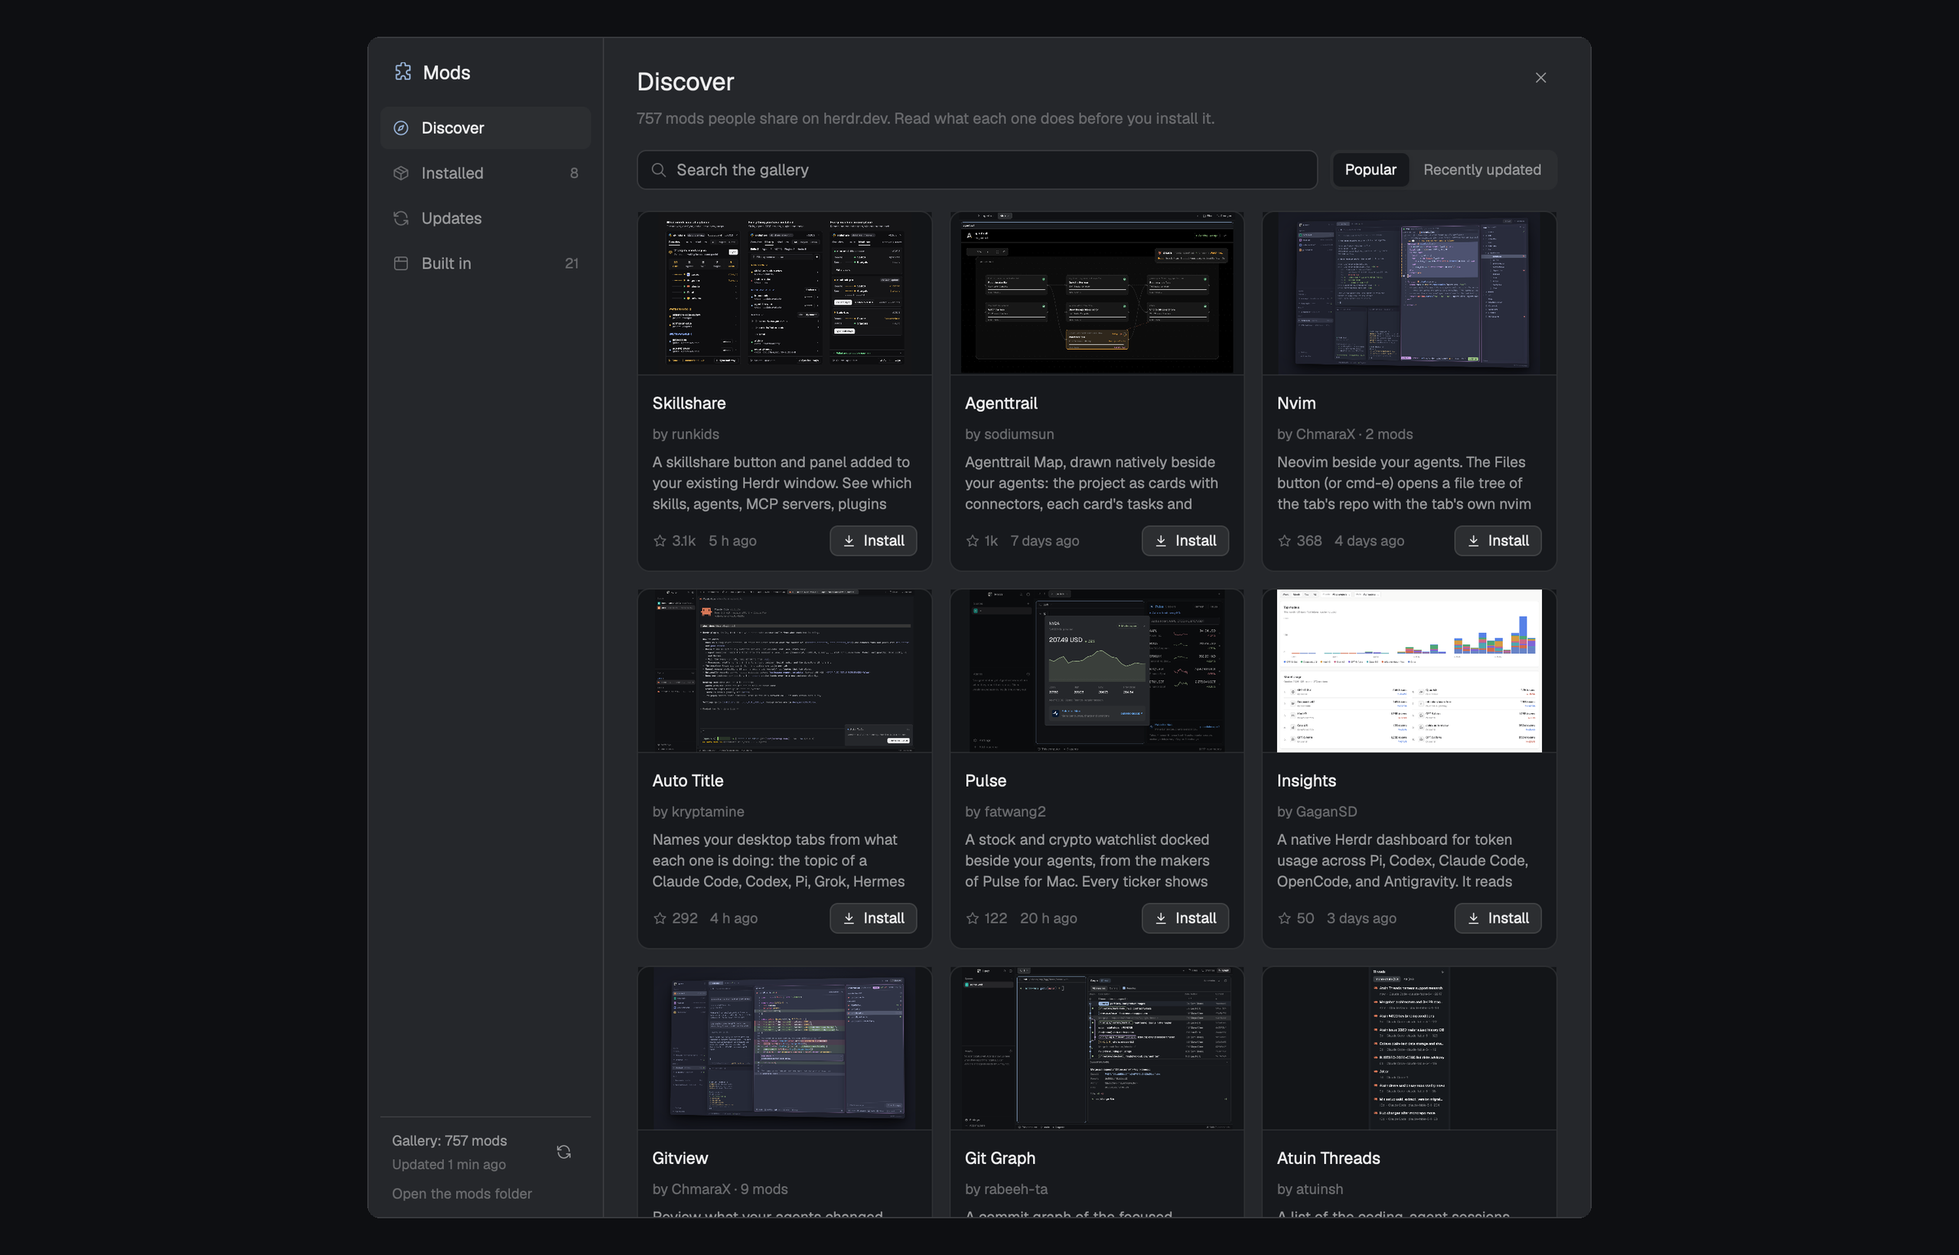
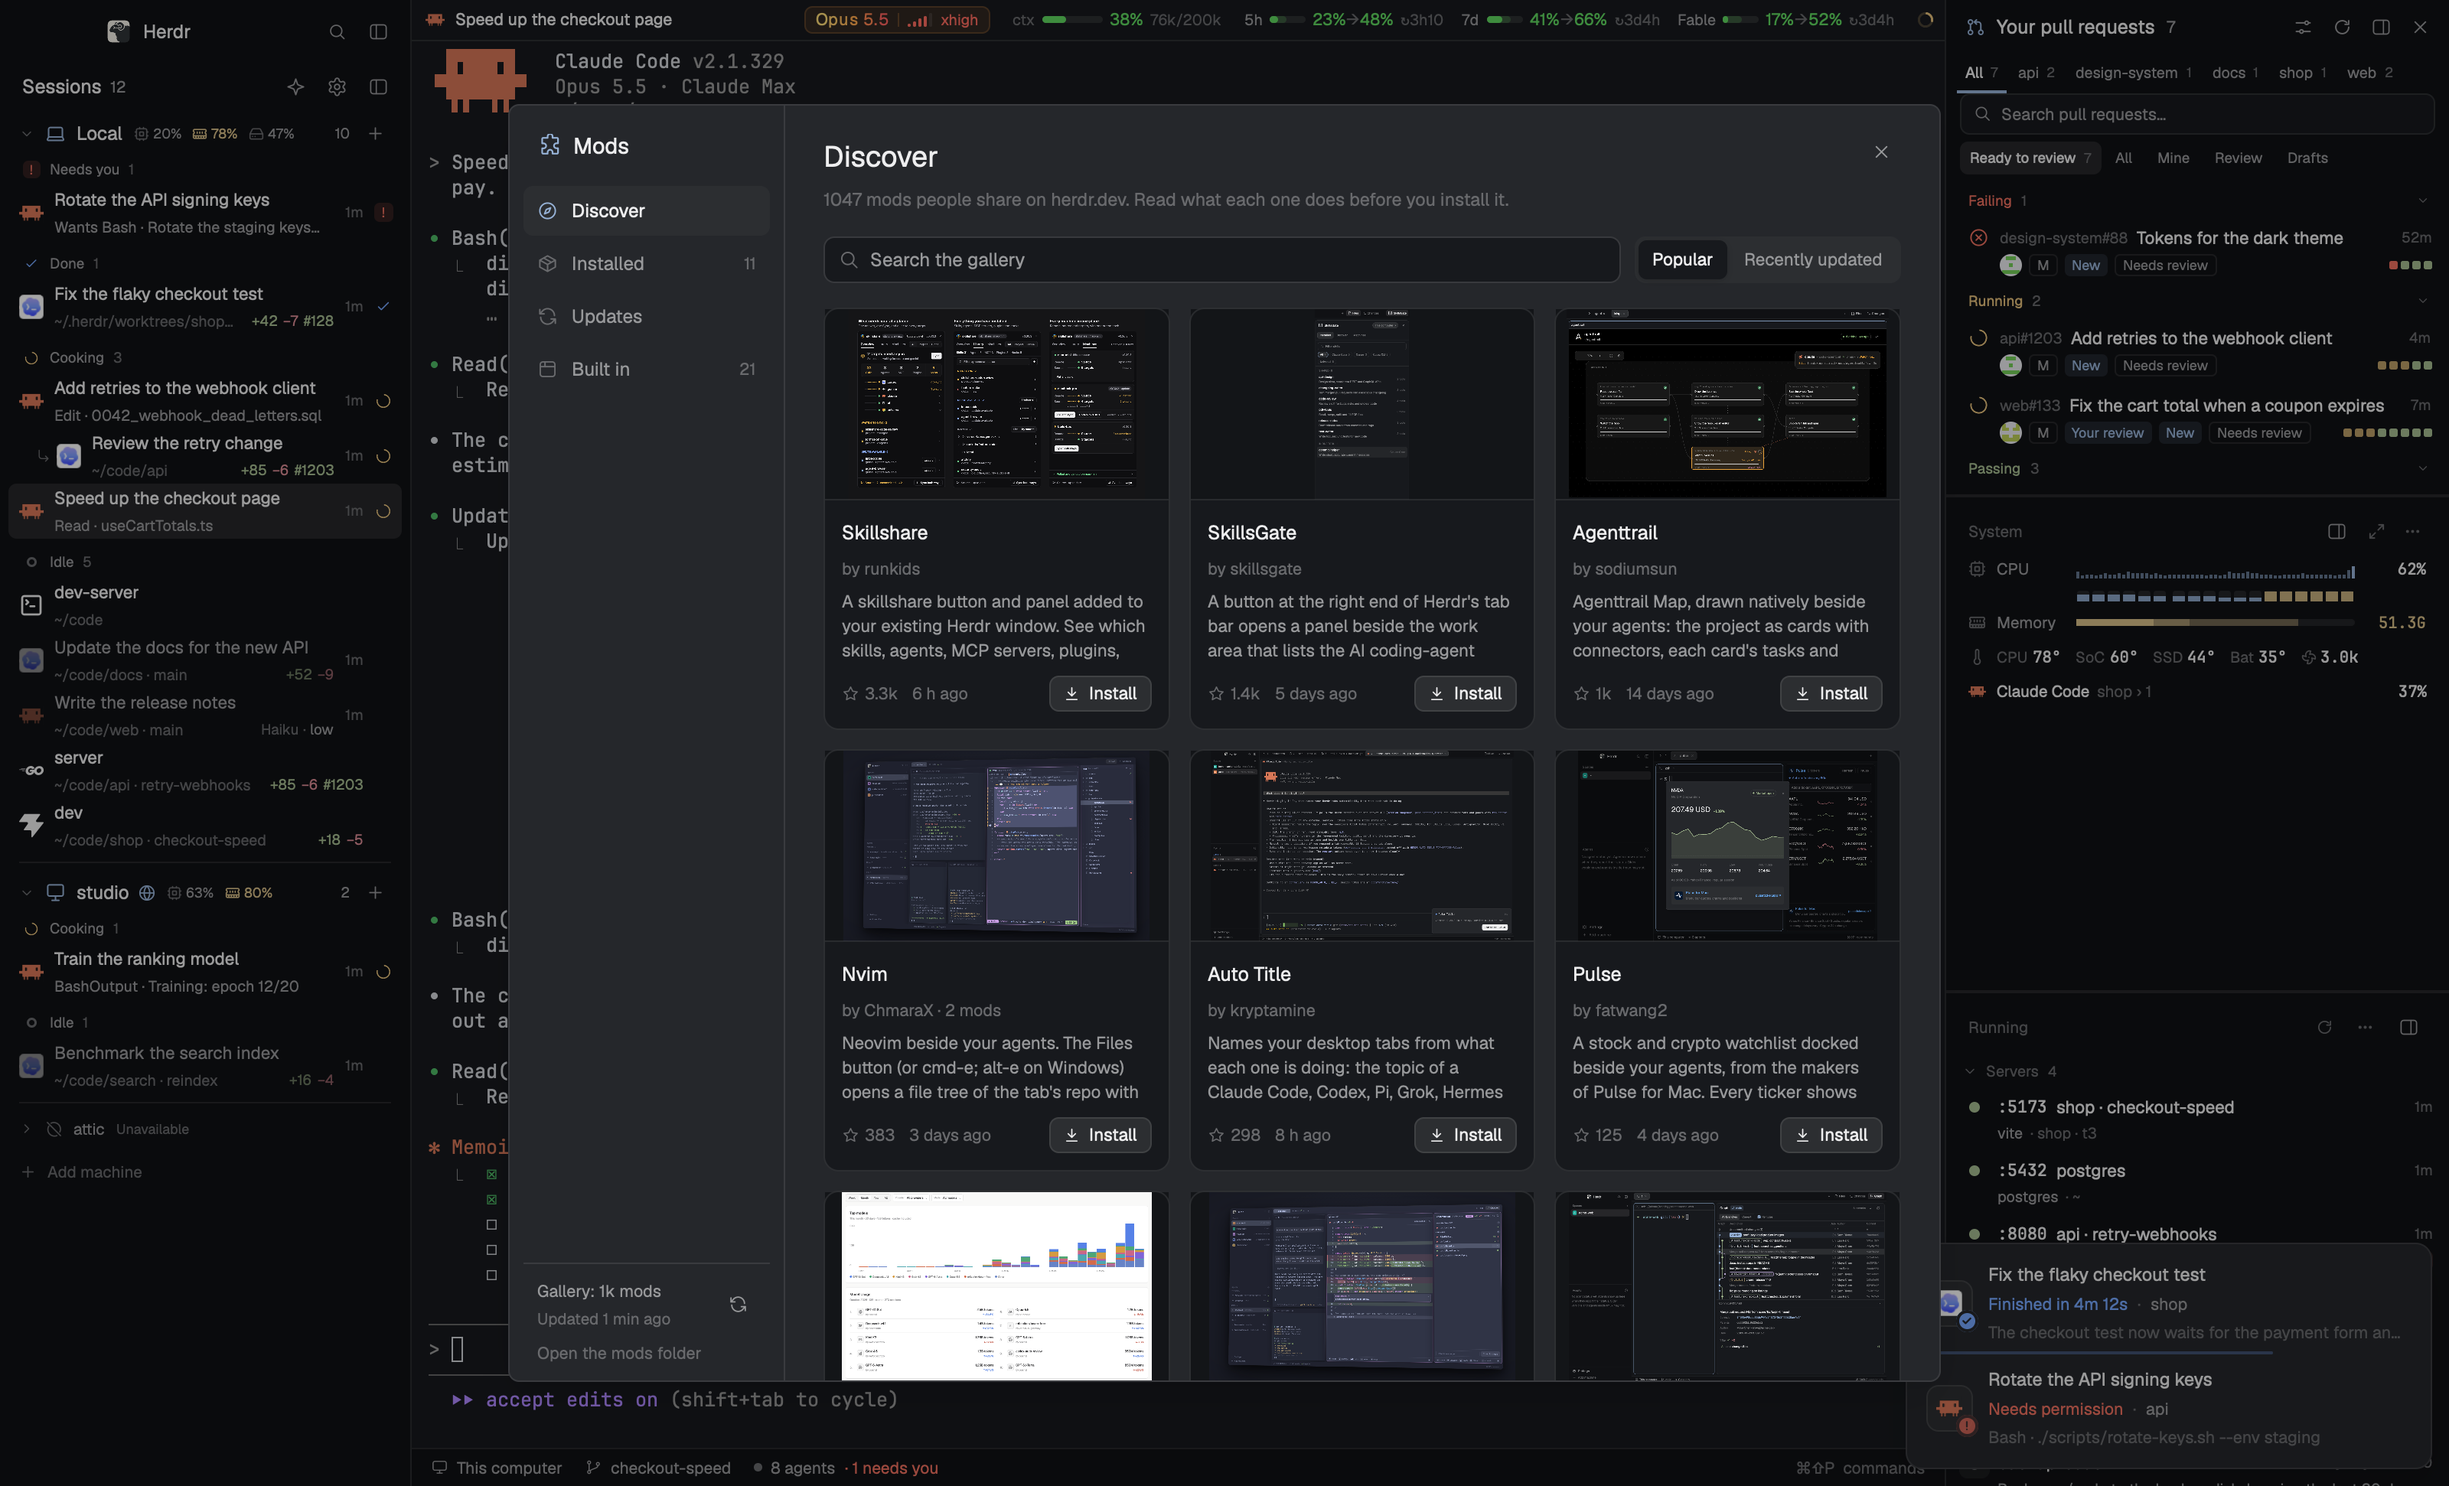
docs: show the mod in a full Herdr window, every other mod around it
The README's pictures are new, taken on the showcase stage: one made-up Herdr window with
all the mods running, this one in front and the rest dimmed behind it. A line under the main
picture says what else is in the frame, and a Works well with section links the other mods.
docs/demo says how to take the pictures again.

diff --git a/README.md b/README.md
@@ -6,7 +6,9 @@ A mod for the [Herdr](https://herdr.dev) desktop app: one screen for every mod. 
 people share in the gallery, read what a mod's code can reach before you install it, and manage
 the mods you have: turn them off and on, update them, roll back, remove them with undo.
 
-![A dialog titled Mods over the Herdr window. A sidebar lists Discover, Installed (8), Updates and Built in (21), and at its foot "Gallery: 757 mods, updated 1 min ago". The Discover page shows a search field, a Popular / Recently updated switch, and a grid of cards: Skillshare, Agenttrail, Nvim, Auto Title, Pulse, Insights, Gitview, Git Graph and Atuin Threads, each with its screenshot, author, description, stars, last update and an Install button.](preview.png)
+![The Mods dialog open over the Herdr window, which it dims. Its sidebar lists Discover (selected), Installed (11), Updates and Built in (21), and at its foot "Gallery: 1k mods, Updated 1 min ago" and "Open the mods folder". The Discover page says "1047 mods people share on herdr.dev" and shows a search field, a Popular / Recently updated switch, and a grid of cards: Skillshare, SkillsGate, Agenttrail, Nvim, Auto Title and Pulse, each with its screenshot, author, description, stars, last update and an Install button, and a third row starting below. Behind the dialog: the Sessions sidebar on the left with agents on this computer and on studio, a Claude Code session with a header showing its model, context and limits, pull requests and system stats on the right with the servers that are running, and two notifications in the bottom right corner. The gallery is the real one on herdr.dev; the sessions, projects and pull requests around it are made up.](preview.png)
+
+*Around it: the [Sessions sidebar](https://github.com/jeffarese/herdr-agents-sidebar) on the left, a pane header with the model and limits, [pull requests](https://github.com/jeffarese/herdr-prs) and [stats](https://github.com/jeffarese/herdr-stats-mod) on the right with what's running, and two notifications in the corner. Every session in it is made up.*
 
 Herdr has no screen for mods. You add one by asking an agent or copying a folder, take it out
 by deleting the folder, and to see which mods you have you open `~/.config/herdr-app/mods`.
@@ -146,6 +148,17 @@ herdr-app check mods/mod-hub
 - Herdr stops a script that runs for half a second at a stretch, so anything heavy is done in
   one pass or in pieces.
 - **[RECIPE.md](RECIPE.md)** is the brief an agent can rebuild the mod from.
+- **[docs/demo](docs/demo)** says how the README's picture is taken.
+
+## Works well with
+
+The pictures above are one Herdr window with these mods running together:
+
+- [Sessions sidebar](https://github.com/jeffarese/herdr-agents-sidebar): every agent and shell on all your machines in one sidebar, with sub-agents and background work.
+- [Pull requests](https://github.com/jeffarese/herdr-prs): your pull requests and the state of their checks, in a sidebar.
+- [Stats](https://github.com/jeffarese/herdr-stats-mod): CPU, memory, GPU, network and temperatures beside your terminals, and which agent is using them.
+- [Quick switcher](https://github.com/jeffarese/herdr-bar-mod): ⌘K to any agent, tab, pane or space on every machine.
+- [Outside](https://github.com/jeffarese/herdr-outside): the agents and terminals herdr-core runs outside your spaces.
 
 ## License
 

diff --git a/docs/demo/README.md b/docs/demo/README.md
@@ -1,0 +1,47 @@
+# The README's picture
+
+[preview.png](../../preview.png) (also the card on the herdr.dev gallery) is the real mod in the
+real Herdr app, on a showcase stage: a second Herdr app on this Mac with a home of its own, every
+one of Jeff's mods installed, his layout, and a made-up world around them (Sam, who works at
+Acme, with agents on two machines, pull requests, servers and two notifications).
+
+**Real:** the Herdr app, herdr-core, this repository's mod as the working tree has it, the other
+mods, and the gallery: the Discover page lists what herdr.dev shares, fetched over the network
+when the picture is taken.
+
+**Made up:** every session, project, machine, pull request and server around the dialog. The
+stage builds them from stand-ins; nothing of yours is read or written.
+
+The stage is the showcase kit in `~/workspace/herdr/herdr-showcase` (its `README.md` explains
+it, and `BRIEF.md` is the world every mod's picture shares). This folder holds the one piece that
+is this mod's own: [showcase.sh](showcase.sh), the hook the kit runs after its cast. It opens the
+Mods dialog and waits until the first cards' previews have downloaded.
+
+## Take it again
+
+From the repository's root:
+
+```sh
+sh docs/demo/showcase-shots.sh
+```
+
+[showcase-shots.sh](showcase-shots.sh) builds the stage with the hook, takes `preview.png` with
+the kit's `shoot.sh`, shrinks it to a palette if it is over 2.5 MB ([quantize.sh](quantize.sh)),
+and takes the stage down. To look before shooting, build a stage and keep it:
+
+```sh
+SHOWCASE_TFVPN=0 SHOWCASE_HOOK=$PWD/docs/demo/showcase.sh sh ~/workspace/herdr/herdr-showcase/stage.sh > /tmp/stage.txt
+w=$(head -n 1 /tmp/stage.txt)
+sh ~/workspace/herdr/herdr-showcase/shoot.sh "$w" preview.png
+sh ~/workspace/herdr/herdr-showcase/stage.sh --down "$w"
+```
+
+(The stage's folder is read from a file: some of its processes keep `stage.sh`'s output open,
+so `w=$(sh stage.sh)` waits until the stage is gone.)
+
+- `SHOWCASE_TFVPN=0` leaves out the private VPN switch, as every public README's picture does.
+- The dialog opens on the page it showed last, so a stage's first open is Discover. The
+  gallery's order changes from day to day, so the cards differ from one picture to the next.
+- `shoot.sh` waits until the keyboard and mouse have been still for a minute, then brings the
+  stage's window forward for about two seconds. Run it when you can leave the Mac alone.
+- The picture is the window at 2x, 3200 pixels wide.
